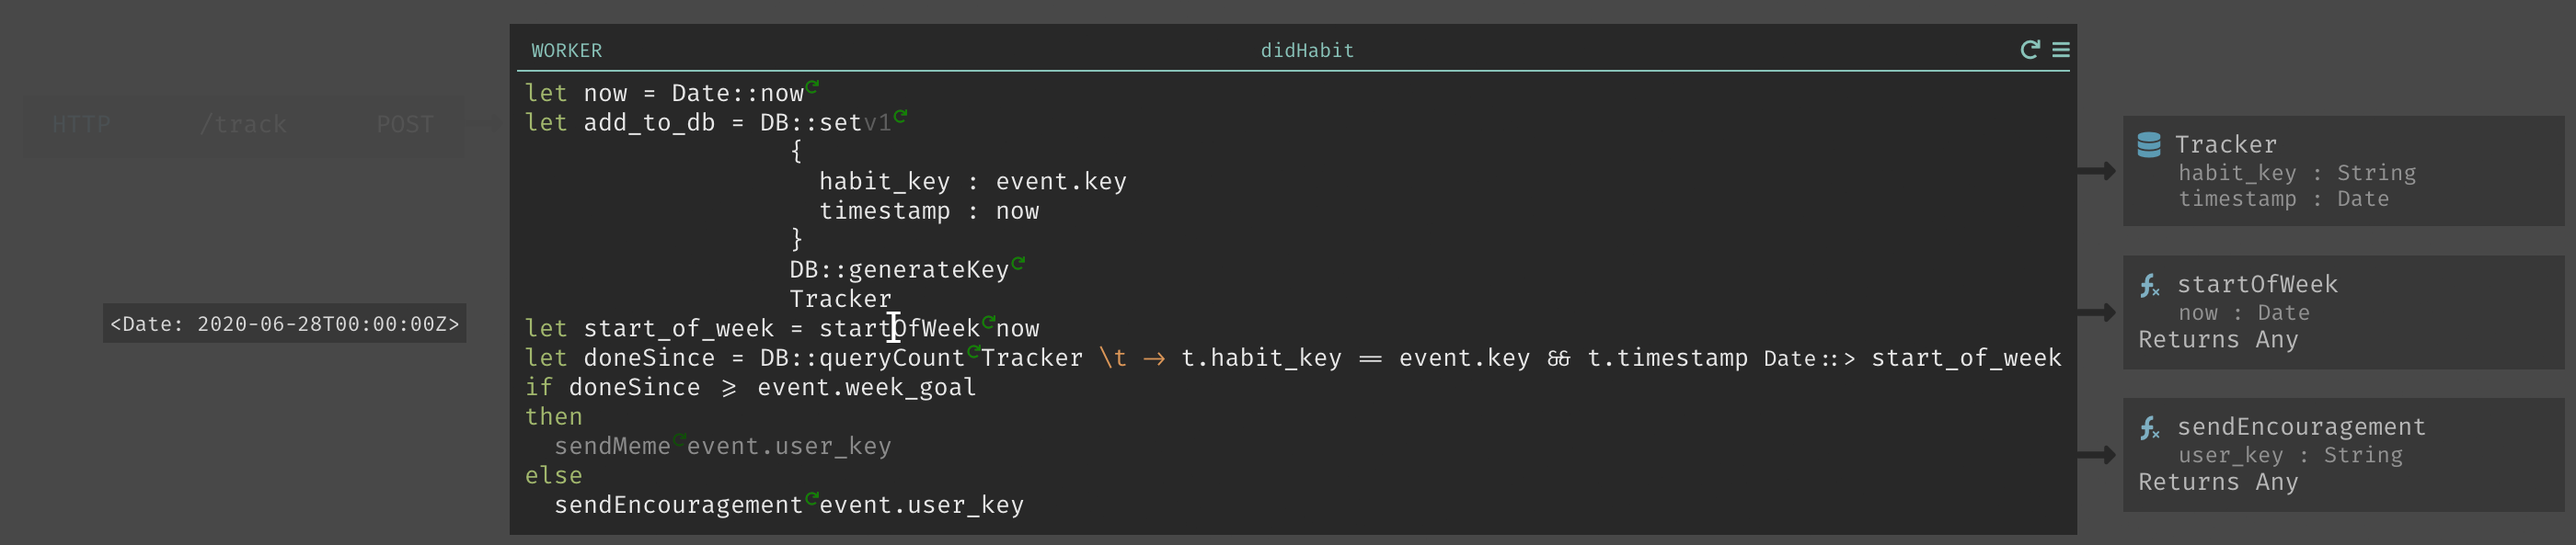
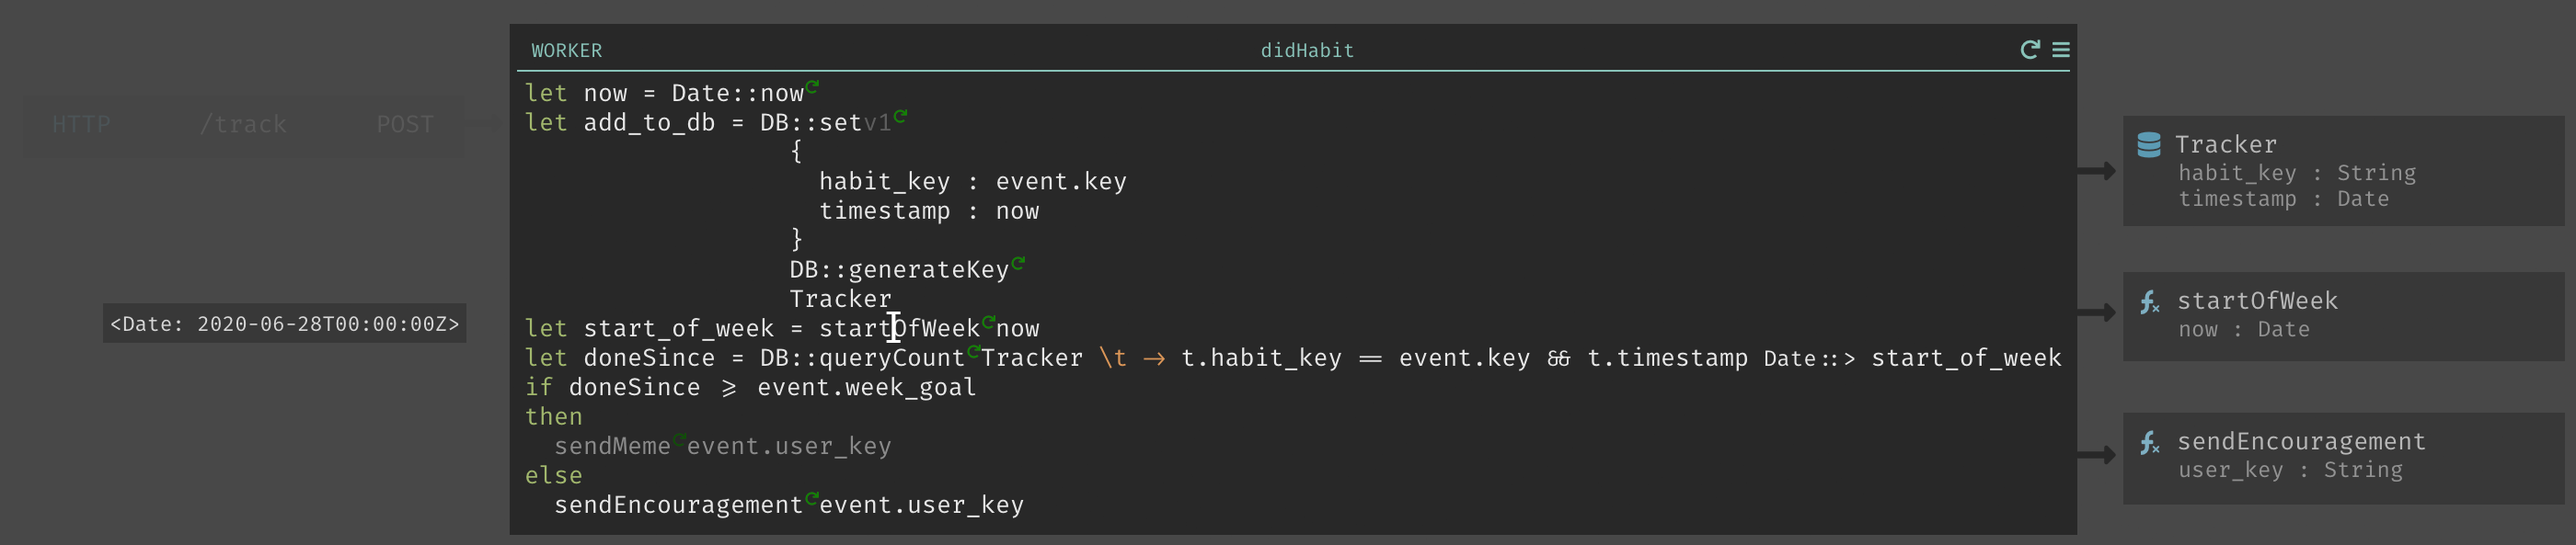
edit flow images

Changed region(s): [[0.8079, 0.7589, 0.9632, 0.9106], [0.8079, 0.4857, 0.9011, 0.6374]]

diff --git a/dark-flow/index.html b/dark-flow/index.html
@@ -26,7 +26,7 @@
 					<section  class="before-change">
 						<h2>Roles & Responsibilities</h2>
 
-						<p>For this project, I performed <em>problem analysis</em>, <em>user interaction flow</em>, <em>wireframes</em>, <em>interactive designs</em>, and <em>MVP implementation</em>. The CTO helped me cut scope for the MVP and implemented some follow-up changes.</p>
+						<p>For this project, I performed <em>problem analysis</em>, made <em>wireframes</em>, <em>interactive designs</em>, and the <em>MVP implementation</em>. The CTO helped me cut scope for the MVP and implemented some follow-up changes.</p>
 
 					</section>
 				<section id="empathize" class="dark">
@@ -34,27 +34,27 @@
 					<center>
 					<iframe src="https://player.vimeo.com/video/435405334" width="640" height="364" frameborder="0" allow="autoplay; fullscreen" allowfullscreen></iframe>
 					</center>
-					<p>Dark lays its constructs (code and data schemas) in floating boxes. Developers spend their time panning, dragging, jumping around their project space instead of coding. <em>Why do they do that?</em></p>
+					<p>Dark lays its constructs (code and data schemas) in floating boxes. Users spend their time panning, dragging, jumping around their project space instead of coding. <em>Why do they do that?</em></p>
 				</section>
 				<section class="dark">
 					<h4>1. They do so to verify DB schemas</h4> 
-					<p>Developers need to drag databases close to code referring to it. Because <code>DB::set</code> requires the data inserted to match the schema exactly.</p>
+					<p>Often users need to drag databases close to their code because <code>DB::set</code> requires the data inserted to match the schema exactly.</p>
 					<center><iframe src="https://player.vimeo.com/video/435405240" width="505" height="300" frameborder="0" allow="autoplay; fullscreen" allowfullscreen></iframe></center>
 				</section>
 				<section class="dark">
 					<center><iframe src="https://player.vimeo.com/video/435577183" width="450" height="300" frameborder="0" allow="autoplay; fullscreen" allowfullscreen></iframe></center>
-					<p>When a function has code referring to a DB, the experience is even worse! <aside class="notes">Since functions are in their own separate space, developers must to go back to the main space to see the DB schema. They must either have fantastic short-term memory or take a screenshot of the DB double-check their code.</aside></p>
+					<p>When a function has code referring to a DB, the experience is even worse! <aside class="notes">Since functions are in their own separate space, users must to go back to the main space to see the DB schema. They must either have fantastic short-term memory or take a screenshot of the DB double-check their code is using the correct schema.</aside></p>
 				</section>
 				<section class="dark">
 					<h4>2. To read/write in functions</h4>
 					<center><iframe src="https://player.vimeo.com/video/435578880" width="727" height="300" frameborder="0" allow="autoplay; fullscreen" allowfullscreen></iframe></center>
-					<p>Developers can create functions, which will be accessible throughout their own project. But these functions are NOT accessible within the main space<aside class="notes">; they exist in their own little world. Nor are they accessible from the code that uses them. They can only be reached through the sidebar.</aside></p>
+					<p>Users can create functions, which will be accessible throughout their project. But these functions are NOT accessible within the main space. <aside class="notes inline">They exist in their own little world. Nor are they accessible from the code that uses them. They can only be reached through the sidebar.</aside></p>
 				</section>
 				<section class="dark before-change">
 					<h4>3. To understand workers</h4>
 					<p>Workers are like async functions that appear in the main space. But that doesn't make using them any easier.</p>
 					<img src="worker_diff_inputs.gif" style="height: 200px; width: auto;" />
-					<aside class="notes">>They take only one argument <code>event</code> of type Any. The developer has to drag them near their code to determine its expected input, just like DBs. But unlike DBs, which have a set schema, the developer must read through the code to figure out what is the expected type and structure of the input.</aside>
+					<aside class="notes">They take only one argument <code>event</code> of type <code>Any</code>. The user has to drag a worker near their code to understand its expected input (just like they do with DBs). But unlike DBs, which have a set schema, the user must read through the code to figure out what is the expected type and structure of the input.</aside>
 				</section>
 				<section id="analyze"
 					data-background-image="nyc.jpeg"
@@ -65,9 +65,9 @@
 					><h2>How did we get here?</h2>
 					<q>Problems we face today are created by people in the past with the best intentions</q>
 					
-					<aside class="notes">The founder's vision for Dark is to bring data into development. He would start off with "imagine a city, where you have boroughs and neighborhoods...". He wanted constructs in Dark to be laid out as if they are on a map. The value of Dark is it would show developers live (or cumulative) traffic as it flows through the codebase.</aside>
+					<aside class="notes">The founder's vision for Dark is to bring data into development. He would start off his pitch with "imagine a city, where you have boroughs and neighborhoods...". He wanted Dark's constructs to be laid out as if they are landmarks on a map. The value of Dark is it would show users live (or cumulative) traffic as it flows through the codebase.</aside>
 
-					<p>The floating boxes (of code and DBs) are one day suppose to have dots/lines between them to show live traffic. They will organize code for developers instead of having files. File systems, he theorized, are arbitrary ways of splitting code. They give developers more problems to worry about (such as dependency cycles) than solutions.</p>
+					<p>The floating boxes (of code and DBs) are one day suppose to have dots/lines between them to show live traffic. They will organize code for users, replacing folders and files. File systems, he theorized, are arbitrary ways of splitting code. They give users more problems to worry about (such as dependency cycles) than solutions.</p>
 				</section>
 				<section>
 					<h4>Let's think through the city analogy</h4>
@@ -80,41 +80,41 @@
 
 				</section>
 				<section>
-					<h4>The path of a single trace is a trip.</h4>
 					<div class="side-by-side">
 						<img src="dresden_path.png" />
 						<img src="habits_path.jpg" />
 					</div>
+					<p class="center">The path of a single trace is a trip.</p>
 				</section>
 				<section>
 					<div class="side-by-side">
 						<img src="dresden_traffic.png" />
 						<img src="habits_traffic.jpg" />
 					</div>
-					<aside class="notes">Google maps show congestion. The API traffic map shows the density of requests passing through endpoints and into databases.</aside>
+					<aside class="notes">Google maps show congestion. The API traffic map shows the request frequency of data passing through endpoints and into databases.</aside>
 
-					<p>Over time we can construct a cumulative flow illustrating the popularity of certain paths. The developer will know which parts of the codebase to devote more resources.</p>
+					<p>Over time we can construct a cumulative flow illustrating the popularity of certain paths. The user will know which parts of the codebase to devote more resources.</p>
 
 				</section>
 				<section>
-					<h4>Unfortunately, most of our developers don't have live traffic yet*</h4>
+					<h4>Unfortunately, most of our users don't have live traffic yet*</h4>
 
-					<p>for the traffic feature to be useful. They find Dark such a frustrating experience they never finish their projects.</p>
+					<aside class="notes">for the traffic feature to be useful. They find Dark such a frustrating experience they never finish their projects.</aside>
 
 					<img src="overlap.png" />
 
 					<aside class="notes">They struggle to understand what is going on in their codebase because everything is too disorganized.</aside>
 
-					<p><small>At the time of this project (early 2019). Now we have many developers with live traffic</small></p>
+					<p><small>At the time of this project (early 2019). Now we have many users with live traffic</small></p>
 				</section>
 				<section id="define">
 						<h2>First, we must pave the streets</h2>
-						How can we help developers understand their codebase? So they may write, debug, and edit code with ease?
-
+						<p>How can we help users understand their codebase? So they may write, debug, and edit code with ease?</p>
+						
 						<div class="fragment" style="display: flex; justify-content: center; align-items: center;">
-							<p>For this case study, we'll be using a simple habits tracker application.</p>
-							<aside class="notes">
-								You set a weekly goal for how many times you want to do the activity (ie: run 3 times a week). When you do the habit the app calls the API with <code>POST /track</code>. The API checks to see if you've reached your goal this week. If you have, you'll get a text with a cute meme. Otherwise, you'll just get a motivational quote instead.</aside>
+							<span>For this case study, we'll be using a simple habits tracker application.
+							<aside class="notes inline">
+								You set a weekly goal for how many times you want to do the activity (ie: run 3 times a week). When you do the habit the app calls the API endpoint <code>POST /track</code>. The API checks to see if you've reached your goal this week. If you have, you'll get a text with a cute meme. Otherwise, you'll just get a motivational quote instead.</aside></span>
 							<img src="habits.png" style="width:200px; border-radius:16px; margin-left:20px;"/>
 						</div>
 
@@ -122,10 +122,10 @@
 				<section id="ideate"  class="before-change">
 						<h2>City planning!</h2>
 
-						<ul>In order to create a useful interface for writing & editing code, we must answer the following questions:
-							<li>What are all the possible paths a trace can take once an endpoint recieves the data?</li>
-							<li>How do we show the navigation of the through these paths?</li>
-							<li>What do information should be available for each construct type?</li>
+						<ul>In order to create a useful interface for writing & editing code, our solutions needs to answer the following questions:
+							<li>What are all the possible paths a trace can take?</li>
+							<li>How do we navigate through these paths?</li>
+							<li>What information should be available for each construct type?</li>
 						</ul>
 				</section>
 				<section class="dark">
@@ -140,22 +140,22 @@
 						<tr><td style="padding: 0; height:315px;"><img src="start-path-1.png" style="max-width:100%;max-height:100%;" /></td><td style="padding: 0; height:315px;"><img src="start-path-2.png" class="fragment" data-fragment-index="1" style="max-width:100%;max-height:100%;"/></td></tr>
 					</table>
 
-					<p>We start off with <code>POST /track</code>, its code it references <code>Habits DB</code> with <code>DB::get</code>. And emits an event to <code>"didHabit" worker</code>.<aside class="notes">So we add them as references. References allow the developer to preview or go down the path in a program's control flow.</aside></p>
+					<p>We start off with <code>POST /track</code>, its code it references <code>Habits DB</code> with <code>DB::get</code>. And emits an event to <code>"didHabit" worker</code>.<aside class="notes">So we add them as references. References allow the user to go through the program's control flow.</aside></p>
 				</section>
 			<!--<section>
 					<img src="path.png" style="height: 50px;" />
 					<h4>Seeing ahead</h4>
 					<img src="expand-worker.png" />
-					<p>When the developer hovers over a reference that contains code (functions and workers), they will be able to see a preview of the code. Just like when your GPS tells you "in 500 km turn right into Blueberry Lane".</p>
+					<p>When the user hovers over a reference that contains code (functions and workers), they will be able to see a preview of the code. Just like when your GPS tells you "in 500 km turn right into Blueberry Lane".</p>
 				</section>
 			-->
 				<section class="dark">
 					<img src="path.png" class="slides-only" style="height: 50px;" />
 					<h4>Going down the path</h4>
 					<img src="focus-worker.png" />
-					<aside class="notes">With <code>didHabit worker</code> in focus, the developer should still see most of <code>POST /track</code>. The fade out on the left side is for aesthetic balance on the slide. The actual mocks had no fade.</aside>
+					<aside class="notes">With <code>didHabit worker</code> in focus, the user will still see most of <code>POST /track</code>.</aside>
 
-					<aside class="notes">When the developer clicks into a reference, the screen now show all its contents and focus on it. Adding its own references to the right. In our navigation analogy, you have made your turn and now directions for the next steps are visible. </aside>
+					<aside class="notes">When the user clicks into a reference, the code inside it will show and viewport pans to focus on it. After in focus, its own references will be aded to the right. In our navigation analogy, you have made your turn and now directions for the next steps are visible. </aside>
 				</section>
 				<section class="dark">
 					<q>Are we there yet?</q>
@@ -172,24 +172,24 @@
 				</section>
 				<section class="dark">
 					<q>... and how do we get there?</q>
-					<p>Looks like they are functions. And a problem our developers face is:</p>
+					<p>Looks like they are functions. And a problem our users face is:</p>
 					<blockquote><small>Functions are NOT accessible within the main space; they exist in their own little world. Nor are they accessible from the code that uses them. They can only be reached through the sidebar.</small></blockquote>
 					<table>
 						<tr><td style="padding: 0; height:315px;"><img src="worker_hi_fn-1.jpg" style="max-width:100%;max-height:100%;" /></td>
 							<td style="padding: 0; height:315px;"><img src="worker_fn_refs.png" class="fragment" data-fragment-index="1" style="max-width:100%;max-height:100%;"/></td></tr>
 					</table>
-					<h4  class="fragment" data-fragment-index="1">Let's references for functions!</h4>
+					<div  class="fragment" data-fragment-index="1">Seems like functions references will be useful</div>
 				</section>
-				<section class="dark">
+				<!-- <section class="dark">
 					<q>Where else are there functions? Let's add those too!</q>
 					<table>
 					<tr><td style="padding: 0; height:315px;"><img src="post_hi_fn.jpg" style="max-width:100%;max-height:100%;" /></td>
 						<td style="padding: 0; height:315px;"><img src="start-path-3.png" class="fragment" data-fragment-index="1" style="max-width:100%;max-height:100%;"/></td></tr>
 				</table>
-				</section>
+				</section> -->
 				<section class="dark" data-transition="fade-out">
-					<p>Now, when the developer clicks into a function's reference, they can see the code.</p>
-					<img src="focus_fn.png" />
+					<p>Now, when the user clicks into a function's reference, they can see the code.</p>
+					<img src="inside_fn.png" />
 				</section>
 				<!-- DO this later
 				<section data-transition="fade-in">
@@ -200,29 +200,29 @@
 				-->
 				<section class="before-change">
 					<h3>How to represent landmarks?</h3>
-					<p>So far references are just boxy links. How can we use the space to provide useful information to the developer?</p>
+					<p>So far references are just boxy links. How can we use the space to provide useful information to the user?</p>
 
 					<img src="reststop_good.jpg" style="height:240px;" />
 					<aside class="notes">When we look at rest stop signs in highways, they provide information on what's coming up ahead.</aside>
-					<p>Sign designers anticipate a driver's needs as they drive by. Do they need a bathroom break? More gas? A snack? <em>What are our developer's needs?</em></p>
+					<p>Sign designers anticipate a driver's needs as they drive by. Do they need a bathroom break? More gas? A snack? <em>What are our user's needs?</em></p>
 
 					<p><small>Reach out <a href="https://twitter.com/aliceaskwhy" target="_blank">@aliceaskwhy</a>, if you want to share badly designed highway signs.</small></p>
 				</section>
 				<section class="dark">
-					<blockquote>Developers drag DBs closer to their code to check schema.</blockquote>
+					<blockquote>Users drag DBs closer to their code to check schema.</blockquote>
 					<img src="post-db-refs.png" />
-					<aside class="notes">Let's put the schema into a DB reference, so they will no longer have to drag the DB over to validate schema.</aside>
+					<aside class="notes">Let's put the schema into a DB reference, so they will no longer have to drag the DB over to validate their code.</aside>
 				</section>
 				<section class="dark">
 					<blockquote>
-						Developers want to see what happens to their code when it passes through a function.
+						Users want to see what happens to their code when it passes through a function.
 					</blockquote>
 					<img src="post-fn-refs.png" />
 					<aside class="notes">We can derive the return type from the code and show the function's input and output signature.</aside>
 				</section>
 				<section class="dark">
 					<blockquote>
-						Developers want to know what a worker expects for its input (<code>event : Any</code>)
+						Users want to know what a worker expects for its input (<code>event : Any</code>)
 					</blockquote>
 					<img src="post-worker-refs.png" />
 					<aside class="notes">We can derive the expected input by analyzing the worker's code!</aside>
@@ -249,7 +249,7 @@
 				<section class="dark">
 					<p>For now let's draw all the references on the right side with <em>incoming and outgoing arrows</em>. We'll think more about their ideal placement later.</p>
 					<img src="lv_with_references.png" />
-					<h4>It is more important to bring the value of references to developers sooner.</h4>
+					<h4>It is more important to bring the value of references to users sooner.</h4>
 				</section>
 				<section class="dark">
 					<h3>Putting it all together</h3>
@@ -262,12 +262,12 @@
 				</section>
 				<section id="build">
 					<h2>Making it real!</h2>
-					<aside class="notes">When it came time to build, we had to trim our requirements. And get an MVP out for developers to test and play with. So we had to cut scope.</aside>
+					<aside class="notes">When it came time to build, we had to trim our requirements. And get an MVP out for users to test and play with. So we had to cut scope.</aside>
 
-					<ul>Scope:
+					<ul>Scope cuts:
 						<li>Only show references on the right for HTTP code blocks.</li>
 						<li>Don't show a worker's event structure yet (because it involves complex program analysis)</li>
-						<li>Don't derive the return types for functions, because functions will have static return types. </li>
+						<li>Don't derive the return types for functions, because functions will have static return types in the future. </li>
 						<li>Instead of expanding to see the code in workers and functions, just pan to them spot in the project space.</li>
 					</ul>
 				</section>
@@ -277,12 +277,12 @@
 				</section>
 				<section id="test" class="before-change">
 					<h2>Field test</h2>
-					<p>Overall the feedback was positive. New developers pointed out it was one of the features they felt made Dark unique. Existing developers even discovered an unintended use case. <em>They used it to depreciate functions and migrate DB schemas.</em></p>
+					<p>Overall the feedback was positive. New users pointed out it was one of the features they felt made Dark unique. Existing users even discovered an unintended use case. <em>They used it to depreciate functions and migrate DB schemas.</em></p>
 					<p>But there were several things they didn't like:</p>
 					<ul>
 						<li>The (in/out) arrows are too subtle.</li>
 						<li>Viewing a function's code in another space is still disruptive to workflow</li>
-						<li>They want to be able to see caller and reference code side by side.</li>
+						<li>They want to be able to see caller's code and reference's code side by side.</li>
 					</ul>
 				</section>
 				<section  class="dark" id="revise">
@@ -293,18 +293,18 @@
 				</section>
 				<section class="dark">
 						<h3>Idea 1: Move it</h3>
-						<p>Now that references have proven their worth, we might be able to move live values. And it will be easier to get everyone on board with the move.</p>
+						<p>Now that references have proven their worth, we might be able to move live values.</p>
 						<img src="lvabove.png" />
-						<aside class="notes">We can move the live values into the code, and they would move above the cursor. They will appear in the line above. If the value is more than one line long, affordances can be added to expand and collapse it. <em>But values moving around is obstructive to typing. And it covers the line above which you may need to see for context.</em></aside>
+						<aside class="notes">We can move the live values into the code, and they would move with the cursor. They will appear in the line above. If the value is more than one line long, affordances can be added to expand and collapse it. <em>But values moving around is obstructive to typing. And it covers the line above which users may need to read for context.</em></aside>
 				</section>
 				<section class="dark before-change">
 					<h3>Idea 2: Show depending on user intentions</h3>
-					<p><small>The scope of focus while reading live values is different than when they are looking at incoming references.</small></p>
+					<p><small>The cursor is at a different place when users look at references than when they look at live values.</small></p>
 					<img src="just-refs.png" data-fragment-index="1" class="fragment" style="height: 160px;" />
-					<p data-fragment-index="1" class="fragment"><small>A developer looks at incoming references to see its usage. The code (and consequently live values) can be a black box. <em>We don't need to show live values in that case.</em></small></p>
+					<p data-fragment-index="1" class="fragment"><small>A user looks at incoming references to see its usage. The code (and consequently live values) can be a black box. <em>We don't need to show live values in that case.</em></small></p>
 
 					<img src="fade-ref.png" data-fragment-index="2" class="fragment" style="height: 160px;" />
-					<p data-fragment-index="2" class="fragment"><small>When a developer edits code, they want to know what is happening to the data. <em>We fade out the incoming references and show the live value then.</em></small></p>
+					<p data-fragment-index="2" class="fragment"><small>When a user edits code, they want to know what is happening to the data. <em>We fade out the incoming references and show the live value then.</em></small></p>
 				</section>
 				<section id="retro"
 					data-background-image="nyc.jpeg"
@@ -313,9 +313,9 @@
 					data-background-size="cover"
 					data-background-opacity="0.3"><h2>Retrospective</h2>
 
-					<p>After the scope was cut, and we implemented references for workers and functions. But there was no plan to implement other cut features nor the revisions.</p>
+					<p>After the scope was cut, and we implemented references for workers and functions. But there was no plan to implement other cut features nor execute on revisions.</p>
 
-					<p>Without moving our incoming references back to the left and showing code of the caller and function side by side. The map/navigation analogy is broken.</p>
+					<p>Without moving our incoming references on the opposite side of outgoing referencesm, the map/navigation analogy is broken.</p>
 				</section>
 			</div>
 		</div>
